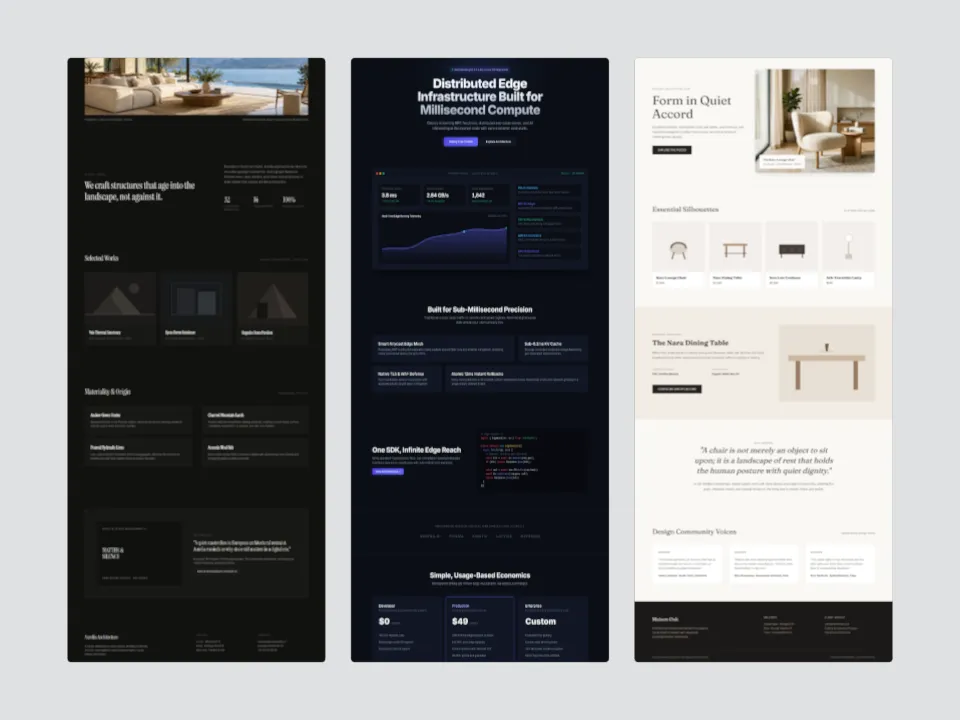
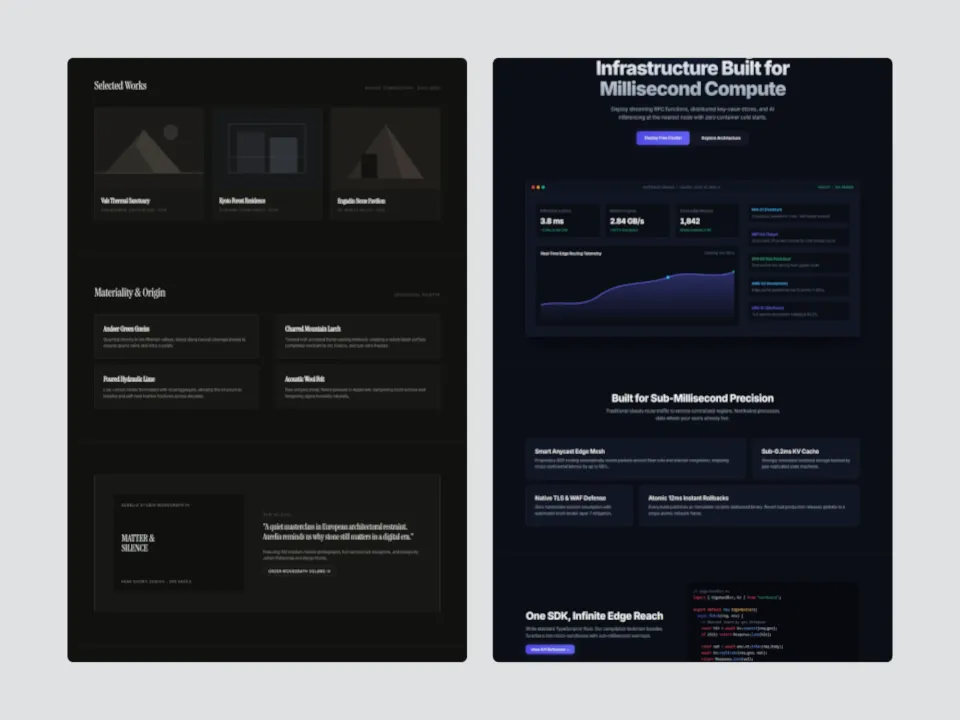
Page Columns: 2 desktop columns at 4:3
Desktop Page Columns now has 2 columns at 4:3, as at 1:1 (owner, 26 October
2026: "2 columns at 4:3"). With 3, Maison Oak's demo page travelled 0.04
column heights in the 12 s loop and read as still; with 2 columns, 0.556
wide, Aurelia travels 0.92 and Northwind 0.87. Desktop counts are 3, 2, 2,
1, 1 at 16:9, 4:3, 1:1, 4:5, 9:16; mobile doesn't change.

The drift test now asks every desktop column to travel at least a fifth of
its window over the loop, so a column that barely moves fails too. D11,
quality bar §4 and contracts.md say so; the 4:3 lab still and contact sheet
frames are new.

Claude-Session: https://claude.ai/code/session_0198efUSNt2h4QK6YvibfxTV

diff --git a/tests/page-columns.test.ts b/tests/page-columns.test.ts
@@ -40,12 +40,12 @@ const WRAP = 0.8;
 
 /**
  * Column count, column width and window height per aspect (quality bar §4). Desktop has fewer,
- * wider columns than mobile at 1:1, 4:5 and 9:16, so its pages drift (owner, 26 October 2026).
+ * wider columns than mobile at 4:3, 1:1, 4:5 and 9:16, so its pages drift (owner, 26 October 2026).
  */
 const GEOMETRY: Record<Shape, Record<Aspect, [number, number, number]>> = {
   desktop: {
     "16:9": [3, 0.4863, 0.84],
-    "4:3": [3, 0.3589, 0.84],
+    "4:3": [2, 0.5558, 0.84],
     "1:1": [2, 0.4125, 0.84],
     "4:5": [1, 0.688, 0.84],
     "9:16": [1, 0.48375, 0.84],
@@ -102,7 +102,7 @@ function expectedRange(asset: AssetRef, role: Shape, aspect: Aspect): number {
 }
 
 describe("Page Columns geometry (quality bar §4)", () => {
-  it("lays out desktop 3, 3, 2, 1, 1 and mobile 3, 3, 3, 2, 2 columns at 16:9, 4:3, 1:1, 4:5, 9:16, centred in 0.86 of the width", () => {
+  it("lays out desktop 3, 2, 2, 1, 1 and mobile 3, 3, 3, 2, 2 columns at 16:9, 4:3, 1:1, 4:5, 9:16, centred in 0.86 of the width", () => {
     for (const role of ["desktop", "mobile"] as const) {
       for (const aspect of ASPECTS) {
         const label = `${role} ${aspect}`;
@@ -201,9 +201,14 @@ describe("Page Columns motion (D9)", () => {
     }
   });
 
-  it("drifts every desktop column at every aspect with the demo pages", () => {
-    // In columns as narrow as mobile ones the demo desktop pages fit whole, so 1:1 and 9:16 were
-    // a still board (owner, 26 October 2026).
+  it("drifts every desktop column visibly at every aspect with the demo pages", () => {
+    // In columns as narrow as mobile ones the demo desktop pages fit whole or nearly, so 1:1 and
+    // 9:16 were a still board and 4:3's Maison Oak column moved 0.04 column heights in its 12 s
+    // loop, about 37 px of a 1080 px frame, which reads as still (owner, 26 October 2026). A
+    // column must travel at least a fifth of its window over the loop: 0.2 × 0.84 of the frame
+    // height, about 180 px at 1080p. The slowest column with the demo pages, Northwind at 1:1,
+    // travels 0.39.
+    const minTravel = 0.2;
     for (const aspect of ASPECTS) {
       const doc = buildTemplatePreviewDoc(desktopPageColumnsTemplate, aspect);
       const start = nodesAt(doc, 0);
@@ -213,7 +218,7 @@ describe("Page Columns motion (D9)", () => {
         // How far the page, fit to the column's width, reaches past its window, in column heights.
         const range = (node.width * asset.height!) / asset.width! / node.height - 1;
         const travel = Math.abs(end[c].scroll - node.scroll) * range;
-        expect(travel, `${aspect} column ${c}`).toBeGreaterThan(0);
+        expect(travel, `${aspect} column ${c}`).toBeGreaterThanOrEqual(minTravel);
       });
     }
   });

diff --git a/src/motion/layouts/page-columns.ts b/src/motion/layouts/page-columns.ts
@@ -26,12 +26,12 @@ export const PAGE_COLUMNS_MAX_SCREENSHOTS = 3;
 
 /**
  * Columns per shape and aspect (plan D11, quality bar §4). Desktop has fewer, wider columns than
- * mobile at 1:1, 4:5 and 9:16 (owner, 26 October 2026): a desktop page in a column as narrow as a
- * mobile one is shorter than its column, so it stayed still. One desktop column shows the first
- * page only.
+ * mobile at 4:3, 1:1, 4:5 and 9:16 (owner, 26 October 2026): a desktop page in a column as narrow
+ * as a mobile one is about as short as its column, so it stayed still or barely moved. One
+ * desktop column shows the first page only.
  */
 const COLUMN_COUNTS: Record<PageColumnsLayout["shape"], Record<Aspect, number>> = {
-  desktop: { "16:9": 3, "4:3": 3, "1:1": 2, "4:5": 1, "9:16": 1 },
+  desktop: { "16:9": 3, "4:3": 2, "1:1": 2, "4:5": 1, "9:16": 1 },
   mobile: { "16:9": 3, "4:3": 3, "1:1": 3, "4:5": 2, "9:16": 2 },
 };
 
@@ -45,7 +45,7 @@ export const PAGE_COLUMNS_WRAP_OVERLAP = RESPONSIVE_WRAP_OVERLAP;
 export const PAGE_COLUMNS_MAX_LOOP = MAX_SHOT_DURATION - PAGE_COLUMNS_WRAP_OVERLAP;
 
 /**
- * Columns at an aspect (plan D11). Desktop: 3 at 16:9 and 4:3, 2 at 1:1, 1 at 4:5 and 9:16.
+ * Columns at an aspect (plan D11). Desktop: 3 at 16:9, 2 at 4:3 and 1:1, 1 at 4:5 and 9:16.
  * Mobile: 3 at 16:9, 4:3 and 1:1, 2 at 4:5 and 9:16.
  */
 export function pageColumnsCount(shape: PageColumnsLayout["shape"], aspect: Aspect): number {

diff --git a/src/doc/types.ts b/src/doc/types.ts
@@ -90,7 +90,7 @@ export type Layout =
 // (Responsive Scroll, quality-bar §4): side by side at 16:9, 4:3 and 1:1, stacked at 4:5 and 9:16.
 // pageColumns: full pages side by side as frameless cards, each drifting through its own page at
 // a constant speed, neighbours in opposite directions (Desktop and Mobile Page Columns,
-// quality-bar §4), showing the first ones. Desktop: 3 columns at 16:9 and 4:3, 2 at 1:1, 1 at 4:5
+// quality-bar §4), showing the first ones. Desktop: 3 columns at 16:9, 2 at 4:3 and 1:1, 1 at 4:5
 // and 9:16. Mobile: 3 at 16:9, 4:3 and 1:1, 2 at 4:5 and 9:16.
 // shape: desktop columns fill the column width; mobile ones are no wider than a phone screen.
 // Its pace sets the shot's duration: the loop plus the 0.8 s wrap crossfade.

diff --git a/src/templates/demo-preview.ts b/src/templates/demo-preview.ts
@@ -102,7 +102,7 @@ const DEMO_IDS_BY_TEMPLATE: Record<string, string[]> = {
   "desktop-before-after": [desktopHero("aurelia", "home-before"), desktopHero("aurelia")],
   "mobile-before-after": [mobileHero("aurelia", "home-before"), mobileHero("aurelia")],
   // Three full pages, one per column (the shortlist's preview). Fewer columns show the first
-  // ones: desktop 2 at 1:1 and 1 at 4:5 and 9:16, mobile 2 at 4:5 and 9:16.
+  // ones: desktop 2 at 4:3 and 1:1 and 1 at 4:5 and 9:16, mobile 2 at 4:5 and 9:16.
   "desktop-page-columns": [
     desktopFull("aurelia"),
     desktopFull("northwind"),

diff --git a/src/templates/page-columns-template.ts b/src/templates/page-columns-template.ts
@@ -6,7 +6,7 @@ import { loopWrapCrossfade, presetToneStyle } from "./looks";
 
 type PageColumnsLayout = Extract<Layout, { kind: "pageColumns" }>;
 
-// Plan D11: two full pages of one size, and a third column at 16:9 and 4:3 (and mobile 1:1).
+// Plan D11: two full pages of one size, and a third column at 16:9 (and mobile 4:3 and 1:1).
 const REQUIRED_SLOTS = 2;
 
 interface PageColumnsTemplateSpec {

diff --git a/docs/plan/quality-bar.md b/docs/plan/quality-bar.md
@@ -146,17 +146,17 @@ The owner decided on 18 October 2026 that the phone looks like a current iPhone 
 
 - **Responsive Scroll** (`responsive`, cards, still camera; template id `responsive-scroll`): a desktop card at the 1.6 screen aspect and a mobile card at 0.4615 (7.5% radius) of the same page. Side by side at 16:9, 4:3 and 1:1: desktop left, a 0.05 gap, card height min(0.66, (0.86 × W − 0.05) / 2.0615), where W is the frame width. Stacked at 4:5 and 9:16: desktop on top, 0.86 × W wide, a 0.04 gap, mobile height min(0.86 − desktop height − 0.04, 0.6). The pair is centred. Ash or Onyx, no shadow, grain 0, vignette 0 (owner, 18 October 2026).
 
-- **Page Columns** (`pageColumns`, cards, still camera; Desktop Page Columns and Mobile Page Columns, `docs/presets-2-plan/README.md` D9–D11): full pages side by side, one per column, each fit to its column's width (never cropped at the sides) and drifting through its page (§2.2). Mobile has 3 columns at 16:9, 4:3 and 1:1 and 2 at 4:5 and 9:16. Desktop has 3 at 16:9 and 4:3, 2 at 1:1 and 1 at 4:5 and 9:16, which shows the first page: in columns as narrow as mobile ones a desktop page is shorter than its column, so it never drifts (owner, 26 October 2026). With fewer pages, fewer columns share the same span. The columns are centred, with a 0.035 gap. Desktop: each column takes an equal share of 0.86 × W (W = frame width) and is 0.84 tall. Mobile: 0.8 tall and min(that share, 0.8 × 0.4615) wide, so no wider than a phone screen. A page shorter than its column, such as a hero, shows whole on a card as tall as the page, centred, and stays still. Ash or Onyx, no shadow, grain 0, vignette 0. These are the shortlist preview's numbers, kept after the T3 contact sheet except desktop's column counts at 1:1, 4:5 and 9:16:
+- **Page Columns** (`pageColumns`, cards, still camera; Desktop Page Columns and Mobile Page Columns, `docs/presets-2-plan/README.md` D9–D11): full pages side by side, one per column, each fit to its column's width (never cropped at the sides) and drifting through its page (§2.2). Mobile has 3 columns at 16:9, 4:3 and 1:1 and 2 at 4:5 and 9:16. Desktop has 3 at 16:9, 2 at 4:3 and 1:1 and 1 at 4:5 and 9:16, which shows the first page: in columns as narrow as mobile ones a desktop page is about as short as its column, so it stays still or barely moves (owner, 26 October 2026). Every column should travel at least a fifth of its window over the loop. With fewer pages, fewer columns share the same span. The columns are centred, with a 0.035 gap. Desktop: each column takes an equal share of 0.86 × W (W = frame width) and is 0.84 tall. Mobile: 0.8 tall and min(that share, 0.8 × 0.4615) wide, so no wider than a phone screen. A page shorter than its column, such as a hero, shows whole on a card as tall as the page, centred, and stays still. Ash or Onyx, no shadow, grain 0, vignette 0. These are the shortlist preview's numbers, kept after the T3 contact sheet except desktop's column counts at 4:3, 1:1, 4:5 and 9:16:
 
   | Aspect | Desktop columns | Desktop column (w × h) | Mobile columns | Mobile column (w × h) | Mobile group / W |
   | ------ | --------------- | ---------------------- | -------------- | --------------------- | ---------------- |
   | 16:9   | 3               | 0.486 × 0.84           | 3              | 0.369 × 0.80          | 66%              |
-  | 4:3    | 3               | 0.359 × 0.84           | 3              | 0.359 × 0.80          | 86%              |
+  | 4:3    | 2               | 0.556 × 0.84           | 3              | 0.359 × 0.80          | 86%              |
   | 1:1    | 2               | 0.413 × 0.84           | 3              | 0.263 × 0.80          | 86%              |
   | 4:5    | 1               | 0.688 × 0.84           | 2              | 0.327 × 0.80          | 86%              |
   | 9:16   | 1               | 0.484 × 0.84           | 2              | 0.224 × 0.80          | 86%              |
 
-  A desktop column shows 1440 / w × h px of a 1440 px page: about 2,490 px at 16:9, 3,370 at 4:3, 2,930 at 1:1, 1,760 at 4:5 and 2,500 at 9:16, so shorter pages fit whole. The demo desktop pages (3,507–4,183 px) drift at every aspect. Page Columns needs 2 full pages of one size and shows at most 3, each once.
+  A desktop column shows 1440 / w × h px of a 1440 px page: about 2,490 px at 16:9, 2,180 at 4:3, 2,930 at 1:1, 1,760 at 4:5 and 2,500 at 9:16, so shorter pages fit whole. The demo desktop pages (3,507–4,183 px) drift at every aspect, each column at least 0.39 column heights over the 12 s loop. Page Columns needs 2 full pages of one size and shows at most 3, each once.
 
 - **Responsive Tour** (`responsive-tour`, cards, still camera; template id `responsive-tour`, `docs/presets-2-plan/README.md` D12–D15): pages of one site, each as a desktop and a mobile screenshot, on Responsive Scroll's two cards with its sizes and arrangement above (side by side at 16:9, 4:3 and 1:1, stacked at 4:5 and 9:16), Ash or Onyx, no shadow, grain 0, vignette 0. Each step both cards slide to the next page together, edge to edge, each clipped to its card, on the carousel step timing (§2.2): a 1.85 s move on `slide`, then a hold; the mobile screen moves in step with the desktop one. Page n pairs the n-th desktop with the n-th mobile screenshot; every page is fit to its card's width and shows its top. Responsive Tour needs 3 pages in both sizes, takes up to 5 from a template's slots and shows each once. These are the approved preview's values; the T4 contact sheet review may tune them, and any change is recorded here.
 

diff --git a/docs/presets-2-plan/README.md b/docs/presets-2-plan/README.md
@@ -29,7 +29,7 @@ D1 and D2 are the owner's (26 October 2026). D3–D15 are the coordinator's reco
 | D8  | Before & After timing  | Left to right in both sizes. 1.0 s on the old design, a 2.0 s sweep on `smooth`, a hold on the new design, then the 0.8 s wrap crossfade back to the old one: 6.0 s at the Default pace. The sweep never reverses. Two screenshots of one size; the first in Library order is the old design.                  |
 | D9  | Page Columns' motion   | Each column drifts through its page at a constant speed, neighbours in opposite directions (the middle column moves down), then the 0.8 s wrap crossfade.                                                                                                                                                      |
 | D10 | Page Columns' speed    | At most 0.5 column heights per second, calmer than a scroll's 0.9 because it never stops. The loop is the shortest of 12–30 s at which the longest page keeps to that. Past 30 s, every column travels only as far as 0.5 column heights per second allows.                                                    |
-| D11 | Page Columns' layout   | Mobile: 3 columns at 16:9, 4:3 and 1:1, 2 at 4:5 and 9:16. Desktop: 3 at 16:9 and 4:3, 2 at 1:1, 1 at 4:5 and 9:16, changed after the contact-sheet review because narrow columns left the pages static. Frameless cards, Ash or Onyx, no shadow. It says "Needs 2+ full-page screenshots" (one size).         |
+| D11 | Page Columns' layout   | Mobile: 3 columns at 16:9, 4:3 and 1:1, 2 at 4:5 and 9:16. Desktop: 3 at 16:9, 2 at 4:3 and 1:1, 1 at 4:5 and 9:16, changed after the contact-sheet review because narrow columns left pages (nearly) static. Frameless cards, Ash or Onyx, no shadow. It says "Needs 2+ full-page screenshots" (one size).    |
 | D12 | Responsive Tour's look | Frameless cards in Responsive Scroll's geometry (`src/motion/layouts/responsive.ts`). The mobile screen moves in step with the desktop one. Pages pair by order: the i-th desktop screenshot with the i-th mobile one. 3–5 pairs; the first 3 are required.                                                    |
 | D13 | Pace                   | All four follow the Pace control: Calm, Default and Brisk set the tours' step (2.4, 2.0 and 1.6 s), and scale Before & After's timeline and Page Columns' loop by 1.2, 1 and 0.8, within their limits.                                                                                                         |
 | D14 | Demo content           | Real demo pages, not stand-ins: Aurelia gets three more pages in both sizes for the tours, and an earlier design of its home page for Before & After. Existing captures don't change, so no current still changes.                                                                                             |

diff --git a/docs/plan/contracts.md b/docs/plan/contracts.md
@@ -147,8 +147,8 @@ export type Layout =
 // at 4:5 and 9:16.
 // pageColumns: full pages side by side as frameless cards, each drifting through its own page at
 // a constant speed, neighbours in opposite directions (Desktop and Mobile Page Columns,
-// quality-bar §4, §5), showing the first pages of the list: desktop 3 columns at 16:9 and 4:3,
-// 2 at 1:1 and 1 at 4:5 and 9:16; mobile 3 at 16:9, 4:3 and 1:1 and 2 at 4:5 and 9:16
+// quality-bar §4, §5), showing the first pages of the list: desktop 3 columns at 16:9, 2 at 4:3
+// and 1:1 and 1 at 4:5 and 9:16; mobile 3 at 16:9, 4:3 and 1:1 and 2 at 4:5 and 9:16
 // (`pageColumnsCount(shape, aspect)`). shape: desktop columns fill their share of the width;
 // mobile ones are no wider than a phone screen. Its pace sets Shot.duration: the loop plus the
 // 0.8 s wrap crossfade.
